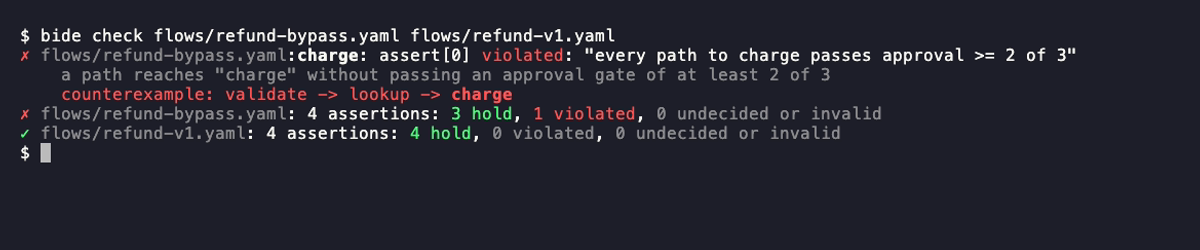
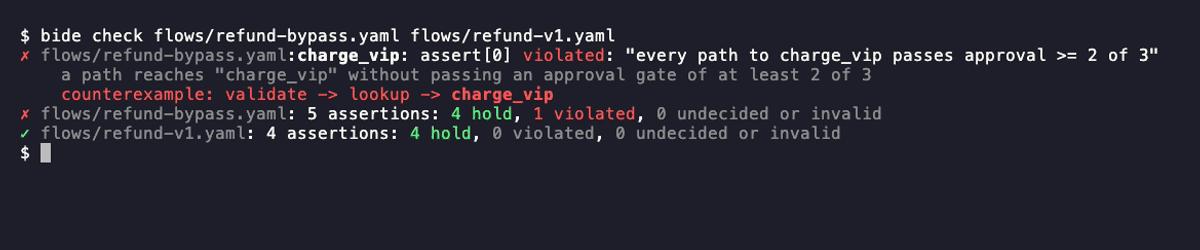
examples: the policy-bypass demo loads (a vip arm reaches a second, ungated charge step); tests, goldens, guide and screenshots follow

diff --git a/internal/runview/runview_test.go b/internal/runview/runview_test.go
@@ -724,30 +724,36 @@ func TestConfigPage(t *testing.T) {
 	}
 }
 
-// policyConfig is examples/plan/flows/refund-policy-bypass.yaml as JSON: a vip arm reaches charge
-// without passing review, the 2-of-3 gate; lookup states no safety.
+// policyConfig is examples/plan/flows/refund-policy-bypass.yaml as JSON: a vip arm reaches charge_vip
+// (a second charge step) without passing review, the 2-of-3 gate; lookup states no safety.
 const policyConfig = `{"version": 1, "flow": "refund", "entry": "validate",
   "nodes": [
     {"name": "validate", "block": "validate", "safety": "readonly"},
     {"name": "lookup", "block": "lookup"},
     {"name": "review", "block": "review", "safety": "readonly", "approval": {"need": 2, "approvers": ["ops", "finance", "risk"]}},
     {"name": "charge", "block": "charge", "safety": "side_effect"},
+    {"name": "charge_vip", "block": "charge", "safety": "side_effect"},
     {"name": "credit", "block": "credit", "safety": "idempotent"},
     {"name": "receipt", "block": "receipt", "safety": "idempotent"}],
   "wiring": [
     {"edge": ["validate", "lookup"]},
-    {"switch": "lookup", "when": [{"pred": "large", "to": "review"}, {"pred": "vip", "to": "charge"}], "else": "credit"},
+    {"switch": "lookup", "when": [{"pred": "large", "to": "review"}, {"pred": "vip", "to": "charge_vip"}], "else": "credit"},
     {"edge": ["review", "charge"]},
     {"edge": ["charge", "receipt"]}],
-  "assert": ["every path to charge passes approval >= 2 of 3", "no side effect after charge", "credit reachable"]}`
+  "assert": ["every path to charge_vip passes approval >= 2 of 3", "no side effect after charge", "credit reachable"]}`
+
+// gatedPolicyConfig is policyConfig with the bypass closed: the vip arm goes through review, and the
+// second charge step is gone.
+var gatedPolicyConfig = strings.Replace(strings.Replace(strings.Replace(policyConfig, `{"name": "charge_vip", "block": "charge", "safety": "side_effect"},
+    `, "", 1), `"to": "charge_vip"`, `"to": "review"`, 1), "every path to charge_vip", "every path to charge", 1)
 
 // TestConfigRiskMap: each node is drawn with its safety class and crash behavior, the summary
 // counts side effects behind a gate and not, and a violated assertion's counterexample is marked
 // on exactly its nodes and edges.
 func TestConfigRiskMap(t *testing.T) {
 	v := configView(t, Config{Name: "policy.json", Data: []byte(policyConfig)})
-	want := RiskSummary{SideEffects: 1, Ungated: 1, ReadOnly: 2, Idempotent: 2, Unknown: 1,
-		Line: "1 side-effect step known, 0 gated, 1 ungated", UnknownLine: "1 node: safety unknown without the Registry (the config states none)"}
+	want := RiskSummary{SideEffects: 2, Gated: 1, Ungated: 1, ReadOnly: 2, Idempotent: 2, Unknown: 1,
+		Line: "2 side-effect steps known, 1 gated, 1 ungated", UnknownLine: "1 node: safety unknown without the Registry (the config states none)"}
 	if v.Risk != want {
 		t.Fatalf("risk = %+v\nwant %+v", v.Risk, want)
 	}
@@ -757,7 +763,7 @@ func TestConfigRiskMap(t *testing.T) {
 	}
 	for name, risk := range map[string][2]string{
 		"validate": {"read-only", "crash: re-runs"}, "lookup": {"safety unknown", "crash: unknown"},
-		"charge": {"side effect", "crash: halts, asks"}, "credit": {"idempotent", "crash: re-runs"},
+		"charge": {"side effect", "crash: halts, asks"}, "charge_vip": {"side effect", "crash: halts, asks"}, "credit": {"idempotent", "crash: re-runs"},
 	} {
 		if n := nodes[name]; n.Risk != risk[0] || n.Crash != risk[1] {
 			t.Errorf("%s: risk %q crash %q, want %v", name, n.Risk, n.Crash, risk)
@@ -766,16 +772,16 @@ func TestConfigRiskMap(t *testing.T) {
 	if n := nodes["review"]; n.GateLine != "gated: 2 of 3" || n.Cex {
 		t.Errorf("review = %+v", n)
 	}
-	if !strings.Contains(nodes["charge"].Title, "Ungated") {
-		t.Errorf("charge title %q", nodes["charge"].Title)
+	if !strings.Contains(nodes["charge_vip"].Title, "Ungated") || !strings.Contains(nodes["charge"].Title, "Gated: every path") {
+		t.Errorf("charge_vip title %q, charge title %q", nodes["charge_vip"].Title, nodes["charge"].Title)
 	}
 	for _, n := range v.Graph.Nodes {
-		if onPath := n.Name == "validate" || n.Name == "lookup" || n.Name == "charge"; n.Cex != onPath {
+		if onPath := n.Name == "validate" || n.Name == "lookup" || n.Name == "charge_vip"; n.Cex != onPath {
 			t.Errorf("node %s: cex %v", n.Name, n.Cex)
 		}
 	}
 	for _, e := range v.Graph.Edges {
-		onPath := e.From == "validate" && e.To == "lookup" || e.From == "lookup" && e.To == "charge"
+		onPath := e.From == "validate" && e.To == "lookup" || e.From == "lookup" && e.To == "charge_vip"
 		if e.Cex != onPath {
 			t.Errorf("edge %s->%s: cex %v", e.From, e.To, e.Cex)
 		}
@@ -784,15 +790,14 @@ func TestConfigRiskMap(t *testing.T) {
 		t.Fatalf("assertions %+v, errors %d", v.Assertions, v.Errors)
 	}
 	_, page := get(t, Handler(Options{Config: &Config{Name: "policy.json", Data: []byte(policyConfig)}}), "/")
-	for _, s := range []string{`class="edge cex"`, "node problem risk-side cex", "node declared risk-read cex", "risk-read", "risk-idem", "node declared risk-unknown", " gated", "violated</span>", "counterexample: <code>validate → lookup → charge</code>"} {
+	for _, s := range []string{`class="edge cex"`, "node problem risk-side cex", "node declared risk-read cex", "risk-read", "risk-idem", "node declared risk-unknown", " gated", "violated</span>", "counterexample: <code>validate → lookup → charge_vip</code>"} {
 		if !strings.Contains(page, s) {
 			t.Errorf("the page lacks %q", s)
 		}
 	}
 
 	// The gated config: the side effect is behind the gate, and nothing is marked.
-	gated := strings.Replace(policyConfig, `, {"pred": "vip", "to": "charge"}`, "", 1)
-	v = configView(t, Config{Name: "policy.json", Data: []byte(gated)})
+	v = configView(t, Config{Name: "policy.json", Data: []byte(gatedPolicyConfig)})
 	if v.Risk.Gated != 1 || v.Risk.Ungated != 0 || v.Errors != 0 || slices.ContainsFunc(v.Graph.Edges, func(e GraphEdge) bool { return e.Cex }) {
 		t.Fatalf("gated: risk %+v, errors %d, edges %+v", v.Risk, v.Errors, v.Graph.Edges)
 	}
@@ -805,13 +810,13 @@ func TestCheckAssertions(t *testing.T) {
 	if !Check(&out, Config{Name: "p.json", Data: []byte(policyConfig)}) {
 		t.Fatal("a violated assertion passed the check")
 	}
-	for _, s := range []string{`p.json:charge: assert[0] "every path to charge passes approval >= 2 of 3" is violated`, "(counterexample: validate -> lookup -> charge)", "p.json: 3 assertions: 2 hold, 1 violated, 0 undecided or invalid"} {
+	for _, s := range []string{`p.json:charge_vip: assert[0] "every path to charge_vip passes approval >= 2 of 3" is violated`, "(counterexample: validate -> lookup -> charge_vip)", "p.json: 3 assertions: 2 hold, 1 violated, 0 undecided or invalid"} {
 		if !strings.Contains(out.String(), s) {
 			t.Errorf("output lacks %q:\n%s", s, out.String())
 		}
 	}
 	out.Reset()
-	gated := strings.Replace(policyConfig, `, {"pred": "vip", "to": "charge"}`, "", 1)
+	gated := gatedPolicyConfig
 	if Check(&out, Config{Name: "p.json", Data: []byte(gated)}) || out.String() != "p.json: 3 assertions: 3 hold, 0 violated, 0 undecided or invalid\n" {
 		t.Fatalf("holding assertions: %q", out.String())
 	}

diff --git a/cmd/bide/sample_test.go b/cmd/bide/sample_test.go
@@ -36,7 +36,7 @@ func TestSampleCommands(t *testing.T) {
 		{[]string{"audit", "verify-evidence", "-evidence", in("refund-1049.evidence.json"), "-pubkey", in("log.pub")}, 0, `run "refund-1049" evidence verified`},
 		{[]string{"check", in("flows/refund-v1.yaml")}, 0, "4 hold, 0 violated"},
 		{[]string{"check", in("flows/refund-v2.yaml")}, 0, "3 hold, 0 violated"},
-		{[]string{"check", in("flows/refund-bypass.yaml")}, 1, "counterexample: validate -> lookup -> charge"},
+		{[]string{"check", in("flows/refund-bypass.yaml")}, 1, "counterexample: validate -> lookup -> charge_vip"},
 		{[]string{"check", in("flows/refund-v2.yaml"), "-diff", in("flows/refund-v1.yaml"), "-check"}, 0, "approval policy weakened"},
 		{[]string{"check", in("flows/refund-v2.yaml"), "-diff", in("flows/refund-v1.yaml"), "-check", "-fail-on-weaken"}, 1, "review: approval 2 of 3 -> 1 of 3"},
 		{[]string{"check", in("flows/refund-v1.yaml"), "-diff", in("flows/refund-v2.yaml"), "-check", "-fail-on-weaken"}, 0, "strengthened"},

diff --git a/cmd/bide/color_test.go b/cmd/bide/color_test.go
@@ -85,11 +85,11 @@ func TestCheckColorGolden(t *testing.T) {
 		"\x1b[31m✗\x1b[0m ",         // a cross on the error
 		"\x1b[31mviolated\x1b[0m: ", // the verdict in red
 		// the assertion in one color, then the reason and the path on lines of their own
-		`: "every path to charge passes approval >= 2 of 3"` + "\n    ",
+		`: "every path to charge_vip passes approval >= 2 of 3"` + "\n    ",
 		"    \x1b[31mcounterexample:\x1b[0m \x1b[31mvalidate\x1b[0m", // the path in red
-		"\x1b[1;31mcharge\x1b[0m\n",                                  // the node it reaches, in bold red
+		"\x1b[1;31mcharge_vip\x1b[0m\n",                              // the node it reaches, in bold red
 		"\x1b[31m1 violated\x1b[0m",
-		"\x1b[32m3 hold\x1b[0m",
+		"\x1b[32m4 hold\x1b[0m",
 	} {
 		if !strings.Contains(out, want) {
 			t.Errorf("colored check output lacks %q:\n%q", want, out)

diff --git a/cmd/bide/full_test.go b/cmd/bide/full_test.go
@@ -24,7 +24,7 @@ func TestCheck(t *testing.T) {
 		t.Errorf("bide check %s: exit %d, want 0 and 4 holding assertions\n%s%s", policy, code, stdout, stderr)
 	}
 	code, stdout, stderr = runBide("check", bypass)
-	if code != 1 || !strings.Contains(stdout, "is violated") || !strings.Contains(stdout, "(counterexample: validate -> lookup -> charge)") {
+	if code != 1 || !strings.Contains(stdout, "is violated") || !strings.Contains(stdout, "(counterexample: validate -> lookup -> charge_vip)") {
 		t.Errorf("bide check %s: exit %d, want 1 and the counterexample\n%s%s", bypass, code, stdout, stderr)
 	}
 	if code, _, _ := runBide("check"); code != 2 {

diff --git a/cmd/bide/internal/samplecmd/samplecmd.go b/cmd/bide/internal/samplecmd/samplecmd.go
@@ -287,7 +287,7 @@ FILES
   approver-keys.json           the approvers' (ops, finance, risk) public keys
   flows/refund-v1.yaml         the refund flow: review needs 2 of 3 approvers; 4 assertions hold
   flows/refund-v2.yaml         the same flow with review lowered to 1 of 3: a weakened gate
-  flows/refund-bypass.yaml     a vip arm skips review: a violated assertion
+  flows/refund-bypass.yaml     a vip arm skips review for an ungated charge step: a violated assertion
 
 TRY (from this directory)
 

diff --git a/internal/sample/sample.go b/internal/sample/sample.go
@@ -47,7 +47,7 @@ import (
 
 // Flows are the sample's flow configs (flows/*.yaml): refund-v1 (the gate needs 2 of 3, and four
 // assertions hold), refund-v2 (the gate needs 1 of 3, a weakened approval policy), and
-// refund-bypass (a vip arm skips the gate: a violated assertion).
+// refund-bypass (a vip arm reaches a second, ungated charge step: a violated assertion).
 //
 //go:embed flows/*.yaml
 var Flows embed.FS

diff --git a/docs/guides/run-viewer.md b/docs/guides/run-viewer.md
@@ -695,17 +695,19 @@ gate, to `charge`, and all four of its assertions hold:
 
 <img src="./img/run-viewer-config-risk-dark.png" alt="bide view -config on a refund flow: nodes colored by crash behavior, a 2-of-3 gate on review, and four holding assertions">
 
-`refund-policy-bypass.yaml` adds a `vip` arm from `lookup` straight to `charge`. The assertion
-`every path to charge passes approval >= 2 of 3` is violated, and its counterexample,
-`validate -> lookup -> charge`, is drawn in red:
+`refund-policy-bypass.yaml` adds a `vip` arm from `lookup` straight to `charge_vip`, a second charge step
+with no gate. (A route around a gate to the *same* step would feed it from two producers, which
+`plan.Load` refuses: a step with several producers needs a join. So a bypass is a second step that does the
+same work.) The assertion `every path to charge_vip passes approval >= 2 of 3` is violated, and its
+counterexample, `validate -> lookup -> charge_vip`, is drawn in red:
 
-<img src="./img/run-viewer-config-assert-dark.png" alt="bide view -config on the same flow with a vip arm that bypasses the gate: the violated assertion and its counterexample path drawn in red">
+<img src="./img/run-viewer-config-assert-dark.png" alt="bide view -config on the same flow with a vip arm that bypasses the gate by way of a second, ungated charge step: the violated assertion and its counterexample path drawn in red">
 
 `bide check` fails on it and prints it as a line, then counts the verdicts:
 
 ```text
-flows/refund-policy-bypass.yaml:charge: assert[0] "every path to charge passes approval >= 2 of 3" is violated: a path reaches "charge" without passing an approval gate of at least 2 of 3 (counterexample: validate -> lookup -> charge)
-flows/refund-policy-bypass.yaml: 4 assertions: 3 hold, 1 violated, 0 undecided or invalid
+flows/refund-policy-bypass.yaml:charge_vip: assert[0] "every path to charge_vip passes approval >= 2 of 3" is violated: a path reaches "charge_vip" without passing an approval gate of at least 2 of 3 (counterexample: validate -> lookup -> charge_vip)
+flows/refund-policy-bypass.yaml: 5 assertions: 4 hold, 1 violated, 0 undecided or invalid
 ```
 
 On a terminal the violation is split over lines that fit the terminal: a red ✗ and the assertion,
@@ -713,7 +715,7 @@ then the reason, dimmed, then the counterexample path in red with the node it re
 file whose assertions all hold gets a green ✓ (see [Color](#color)). Piped or redirected, it is the
 one line above:
 
-<img src="./img/cli-check-violation-dark.png" alt="bide check on a terminal: the violated assertion marked with a red cross, its counterexample validate -> lookup -> charge in red with charge in bold, and the holding file marked with a green check">
+<img src="./img/cli-check-violation-dark.png" alt="bide check on a terminal: the violated assertion marked with a red cross, its counterexample validate -> lookup -> charge_vip in red with charge_vip in bold, and the holding file marked with a green check">
 
 An undecided assertion (a node of unknown safety after X, in `no side effect after X`), an
 assertion outside the grammar, and one naming an undeclared node are errors as well.

diff --git a/docs/guides/plan-flows.md b/docs/guides/plan-flows.md
@@ -726,13 +726,19 @@ journal's topology, a step or predicate name) as `\u{XXXX}`; the JSON endpoints 
   earlier in `wiring[]` (which also rules out a cycle of joins). `bide check` and `bide view -config` report
   this without a Registry, and so a reference to a join (an edge out of it, a switch over it) before its element,
   an edge, arm or `else` into a join, a node that is switched over and has an edge out, and two switches over
-  one node. Not yet reported without a Registry: a cycle that is not a loop, a node unreachable from the entry,
-  a node fed by several producers without a join, and a loop body that is not contiguous.
+  one node.
 - **Loops:** an arm with `loop_max` above 0 is a bounded back-edge to an earlier loop head. The head must
   reach the switch in the forward graph (the edges, a join's inputs and the arms that do not loop back),
-  a switch has at most one loop-back arm, and it needs an exit (another arm or an `else`). `bide check` and
-  `bide view -config` report these without a Registry; the body of the loop (no inner switch, no unrelated
-  node between head and switch) is checked when a program loads the flow.
+  a switch has at most one loop-back arm, and it needs an exit (another arm or an `else`). The loop's body is a
+  simple region: no inner switch or nested loop, no edge that leaves it or enters it past its head, and no
+  node between the head and the switch that is not on the loop path. `bide check` and `bide view -config`
+  report all of these without a Registry.
+- **The rest of the wiring:** a cycle that is not a loop, a node not reached from the entry (an edge or an
+  arm must lead to it: a node you have declared and not wired in yet is reported this way), a node fed by
+  several producers (combine them with a join), and a join's inputs that sit on mutually exclusive arms of
+  a switch or that a switch can skip. `bide check` and `bide view -config` report these without a Registry,
+  so what only `plan.Load` with your Registry can still refuse is what needs the Go side: a block, predicate
+  or merge name that is not registered, the types, a merge block's arity and a node's own gate.
 - **Structural checks `Build` does not give:** a node cannot be both switched-over and have an
   outgoing edge, and a `wiring[]` element must set exactly one of `edge`/`switch`/`join`.
 

diff --git a/changes/unreleased/plan-structural-graph-checks.md b/changes/unreleased/plan-structural-graph-checks.md
@@ -1,0 +1,3 @@
+Section: Fixed
+
+`bide check`, `bide view -config` and `plan.InspectConfig` without a Registry now make every check `plan.Load` and `plan.Build` make on the wiring alone, so a config that `bide check` passed could not still fail to load for a reason that needs no Go code. New: a cycle that is not a loop, a node not reached from the entry (worded so it reads as work in progress: a node you have declared and not wired in yet is a config that will not load), a node fed by several producers without a join, join inputs on mutually exclusive arms of a switch or that a switch can skip, and the shape of a loop's body (no inner switch or nested loop, no edge leaving or entering it past its head, no node between the head and the switch that is not on the loop path). They are Build's own checks run over a spec with no types, in Build's order; with a Registry nothing changes (Build makes them itself, after the type checks). Upgrading: a config with one of these now fails bide check, and the editor shows it as a config error until it is wired. The examples had one: examples/plan/flows/refund-policy-bypass.yaml, the policy-bypass demo that the run viewer guide, bide sample (flows/refund-bypass.yaml) and bide check -diff use, routed a vip arm straight to `charge`, which made `charge` fed by two producers, a config plan.Load has always refused; it is replaced by one that loads, where the vip arm reaches a second, ungated charge step (`charge_vip`, block charge), so the violated assertion is now "every path to charge_vip passes approval >= 2 of 3" with the counterexample validate -> lookup -> charge_vip. A bypass of a gate on the same step cannot be a loading config, because a step with several producers needs a join.
